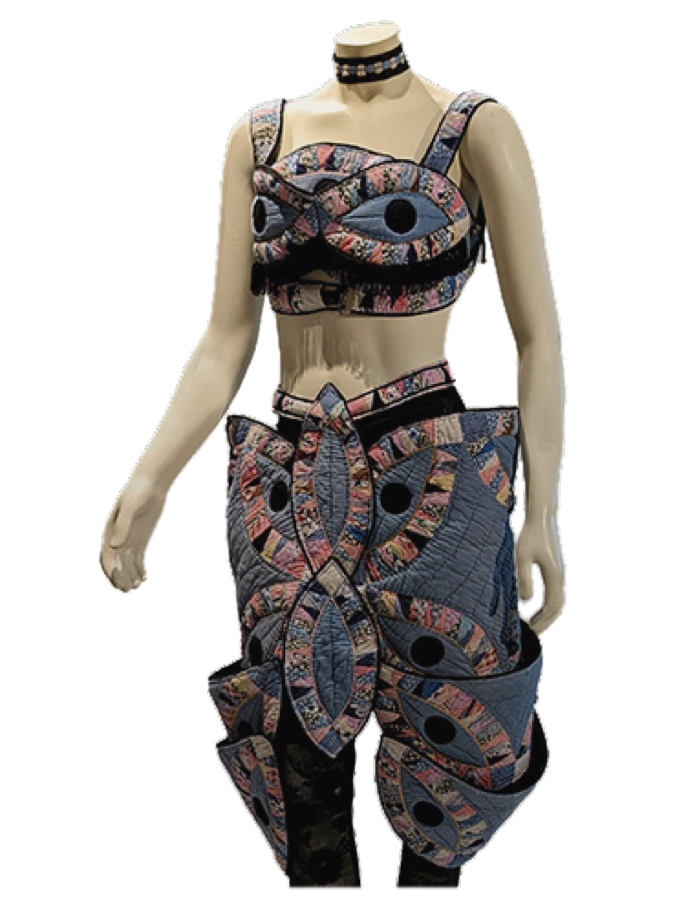
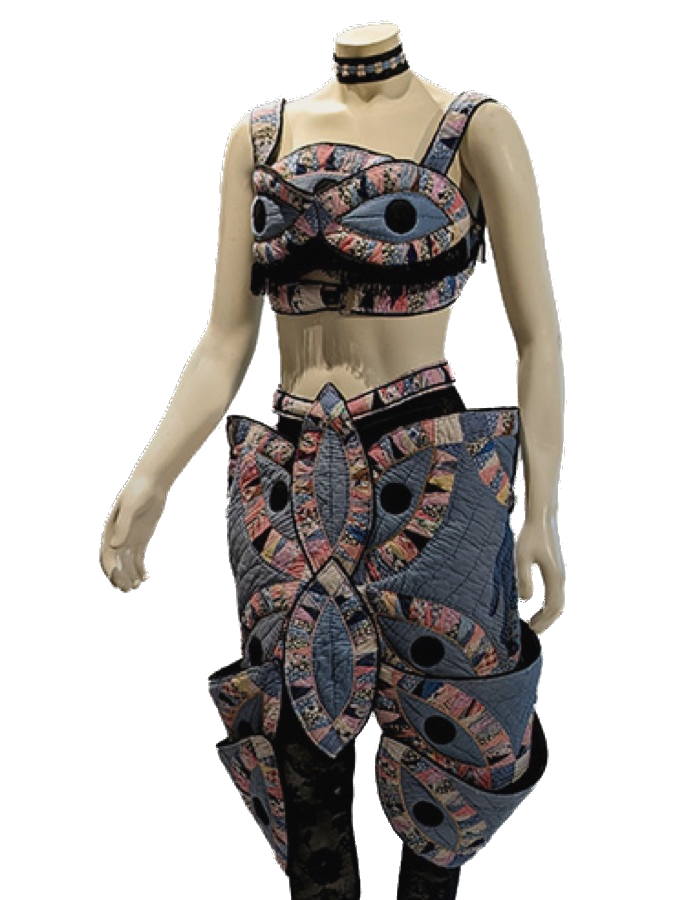
Round 10.4: grey-white fuzz removed from Portals, St. Lucia and Yo-yo Gown (edge layers v9.4/v9.5, passed by both independent audits); Resilience keeps its current layer

diff --git a/index.html b/index.html
@@ -1334,8 +1334,8 @@ html.walked-up .menu { z-index: 46; }
         "id": "portals",
         "slug": "portals",
         "title": "Portals of Love",
-        "img": "img/g10v3/station-portals.jpg?v=ae5814c3",
-        "imgPortrait": "img/g10v3/station-portals.jpg?v=ae5814c3",
+        "img": "img/g10v3/station-portals.jpg?v=92ddb414",
+        "imgPortrait": "img/g10v3/station-portals.jpg?v=92ddb414",
         "floorY": 960,
         "floorYPortrait": 960,
         "yawDeg": 160,
@@ -1362,11 +1362,11 @@ html.walked-up .menu { z-index: 46; }
           ],
           "viewNames": null
         },
[4 lines of base64/hex data omitted]
         "art9": {
           "land": {
-            "src": "img/art9/portals-landscape.webp?v=9704ac9b",
+            "src": "img/art9/portals-landscape.webp?v=cce938ef",
             "w": 508,
             "h": 1000,
             "rect": [
@@ -1377,7 +1377,7 @@ html.walked-up .menu { z-index: 46; }
             ]
           },
           "port": {
-            "src": "img/art9/portals-landscape.webp?v=9704ac9b",
+            "src": "img/art9/portals-landscape.webp?v=cce938ef",
             "w": 508,
             "h": 1000,
             "rect": [
@@ -1425,8 +1425,8 @@ html.walked-up .menu { z-index: 46; }
         "id": "yoyo-gown",
         "slug": "yoyo-gown",
         "title": "She gazed at the carousel through rose-colored glasses",
-        "img": "img/g10v3/station-yoyo-gown.jpg?v=8e1d193e",
-        "imgPortrait": "img/g10v3/station-yoyo-gown.jpg?v=8e1d193e",
+        "img": "img/g10v3/station-yoyo-gown.jpg?v=4cf61045",
+        "imgPortrait": "img/g10v3/station-yoyo-gown.jpg?v=4cf61045",
         "floorY": 960,
         "floorYPortrait": 960,
         "yawDeg": 200,
@@ -1453,11 +1453,11 @@ html.walked-up .menu { z-index: 46; }
           ],
           "viewNames": null
         },
[4 lines of base64/hex data omitted]
         "art9": {
           "land": {
-            "src": "img/art9/yoyo-gown-landscape.webp?v=6c2e0de7",
+            "src": "img/art9/yoyo-gown-landscape.webp?v=3cb3532e",
             "w": 686,
             "h": 900,
             "rect": [
@@ -1468,7 +1468,7 @@ html.walked-up .menu { z-index: 46; }
             ]
           },
           "port": {
-            "src": "img/art9/yoyo-gown-landscape.webp?v=6c2e0de7",
+            "src": "img/art9/yoyo-gown-landscape.webp?v=3cb3532e",
             "w": 686,
             "h": 900,
             "rect": [
@@ -1623,8 +1623,8 @@ html.walked-up .menu { z-index: 46; }
         "id": "st-lucia",
         "slug": "st-lucia",
         "title": "St. Lucia Eyes",
-        "img": "img/g10v3/station-st-lucia.jpg?v=5aebcd51",
-        "imgPortrait": "img/g10v3/station-st-lucia.jpg?v=5aebcd51",
+        "img": "img/g10v3/station-st-lucia.jpg?v=03f4165e",
+        "imgPortrait": "img/g10v3/station-st-lucia.jpg?v=03f4165e",
         "floorY": 960,
         "floorYPortrait": 960,
         "yawDeg": 280,
@@ -1660,11 +1660,11 @@ html.walked-up .menu { z-index: 46; }
             "Back"
           ]
         },
[4 lines of base64/hex data omitted]
         "art9": {
           "land": {
-            "src": "img/art9/st-lucia-landscape.webp?v=e9456d71",
+            "src": "img/art9/st-lucia-landscape.webp?v=5e0dd3a9",
             "w": 686,
             "h": 900,
             "rect": [
@@ -1684,7 +1684,7 @@ html.walked-up .menu { z-index: 46; }
             }
           },
           "port": {
-            "src": "img/art9/st-lucia-landscape.webp?v=e9456d71",
+            "src": "img/art9/st-lucia-landscape.webp?v=5e0dd3a9",
             "w": 686,
             "h": 900,
             "rect": [
@@ -1892,10 +1892,10 @@ html.walked-up .menu { z-index: 46; }
         "floorY": 664,
         "layout": "studio",
         "door": {
-          "img": "img/g10v3/door-studio.jpg?v=2ed39fff",
-          "imgPortrait": "img/g10v3/door-studio.jpg?v=2ed39fff",
-          "wall": "img/g10v3/door/door-studio-wall.webp?v=e7756a14",
-          "wallPortrait": "img/g10v3/door/door-studio-wall.webp?v=e7756a14",
+          "img": "img/g10v3/door-studio.jpg?v=731121db",
+          "imgPortrait": "img/g10v3/door-studio.jpg?v=731121db",
+          "wall": "img/g10v3/door/door-studio-wall.webp?v=2aad3bb8",
+          "wallPortrait": "img/g10v3/door/door-studio-wall.webp?v=2aad3bb8",
           "roomExt": "img/g10v2/door/room-studio-ext.jpg?v=f912b9e3",
           "roomExtSize": [
             1536,
@@ -1946,10 +1946,10 @@ html.walked-up .menu { z-index: 46; }
         "floorY": 662,
         "layout": "wardrobe",
         "door": {
-          "img": "img/g10v3/door-wardrobe.jpg?v=3d252e3a",
-          "imgPortrait": "img/g10v3/door-wardrobe.jpg?v=3d252e3a",
-          "wall": "img/g10v3/door/door-wardrobe-wall.webp?v=21169ee5",
-          "wallPortrait": "img/g10v3/door/door-wardrobe-wall.webp?v=21169ee5",
+          "img": "img/g10v3/door-wardrobe.jpg?v=72408d2b",
+          "imgPortrait": "img/g10v3/door-wardrobe.jpg?v=72408d2b",
+          "wall": "img/g10v3/door/door-wardrobe-wall.webp?v=085c57ad",
+          "wallPortrait": "img/g10v3/door/door-wardrobe-wall.webp?v=085c57ad",
           "roomExt": "img/g10v2/door/room-wardrobe-ext.jpg?v=29654fa2",
           "roomExtSize": [
             1536,
@@ -1998,10 +1998,10 @@ html.walked-up .menu { z-index: 46; }
         "floorY": 718,
         "layout": "entrance",
         "door": {
-          "img": "img/g10v3/door-entrance.jpg?v=29355d0a",
-          "imgPortrait": "img/g10v3/door-entrance.jpg?v=29355d0a",
-          "wall": "img/g10v3/door/door-entrance-wall.webp?v=c0f35206",
-          "wallPortrait": "img/g10v3/door/door-entrance-wall.webp?v=c0f35206",
+          "img": "img/g10v3/door-entrance.jpg?v=d4e73c29",
+          "imgPortrait": "img/g10v3/door-entrance.jpg?v=d4e73c29",
+          "wall": "img/g10v3/door/door-entrance-wall.webp?v=9981adb0",
+          "wallPortrait": "img/g10v3/door/door-entrance-wall.webp?v=9981adb0",
           "roomExt": "img/g10v2/door/room-entrance-ext.jpg?v=4eeb5b78",
           "roomExtSize": [
             1536,
@@ -2050,10 +2050,10 @@ html.walked-up .menu { z-index: 46; }
         "floorY": 718,
         "layout": "entrance",
         "door": {
-          "img": "img/g10v3/door-entrance.jpg?v=29355d0a",
-          "imgPortrait": "img/g10v3/door-entrance.jpg?v=29355d0a",
-          "wall": "img/g10v3/door/door-entrance-wall.webp?v=c0f35206",
-          "wallPortrait": "img/g10v3/door/door-entrance-wall.webp?v=c0f35206",
+          "img": "img/g10v3/door-entrance.jpg?v=d4e73c29",
+          "imgPortrait": "img/g10v3/door-entrance.jpg?v=d4e73c29",
+          "wall": "img/g10v3/door/door-entrance-wall.webp?v=9981adb0",
+          "wallPortrait": "img/g10v3/door/door-entrance-wall.webp?v=9981adb0",
           "roomExt": "img/g10v2/door/room-entrance-ext.jpg?v=4eeb5b78",
           "roomExtSize": [
             1536,
